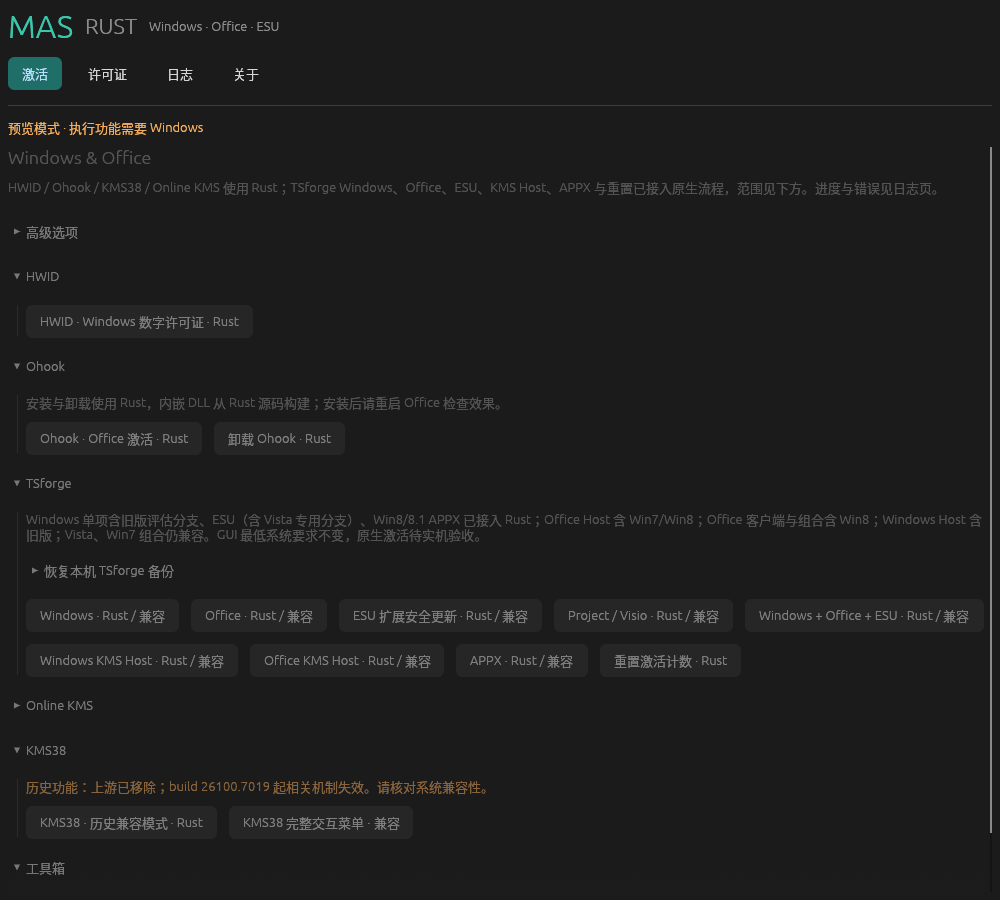
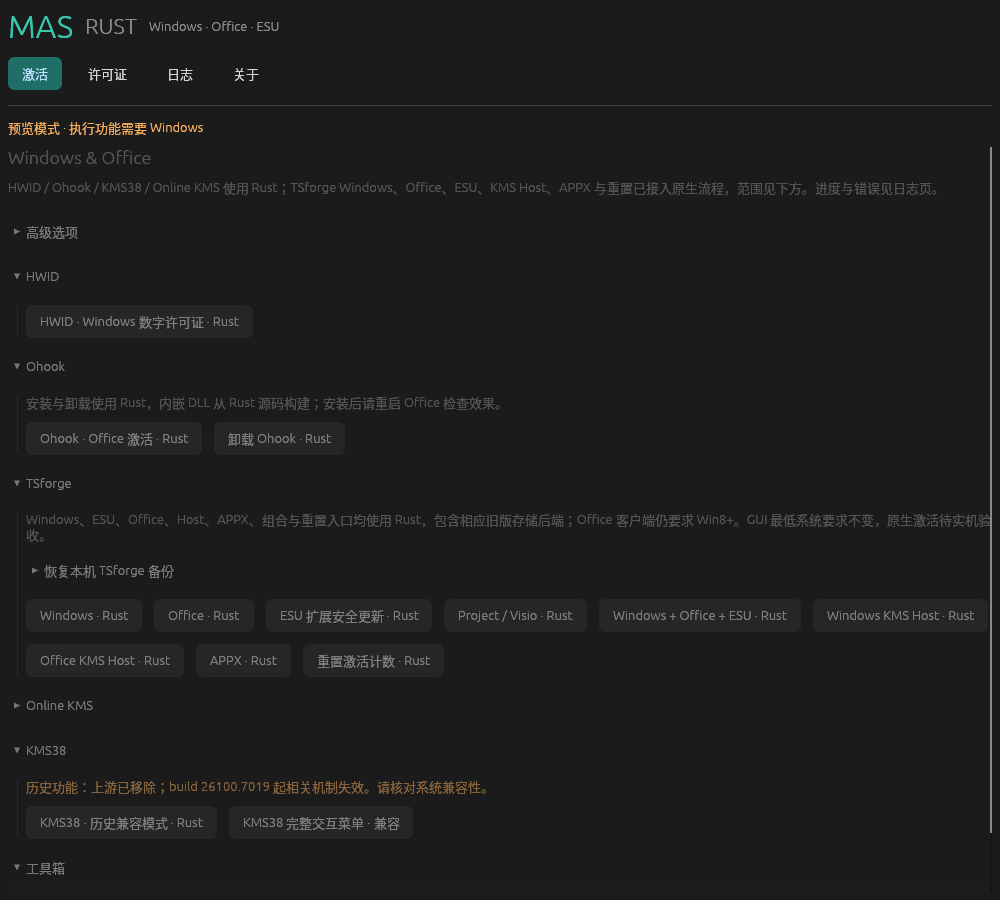
Port legacy combined TSforge flow and remove script fallback routes

diff --git a/src/native/tsforge/combined.rs b/src/native/tsforge/combined.rs
@@ -16,15 +16,35 @@ impl Scope {
         }
     }
 }
+pub fn method(option: usize, build: u32) -> Result<Method, String> {
+    super::crypto::Version::detect(build).map_err(|e| e.to_string())?;
+    let method = match option {
+        0 if build >= 26100 => Method::StaticCid,
+        0 | 2 => Method::ZeroCid,
+        1 => Method::StaticCid,
+        3 => Method::Kms4k,
+        _ => return Err("未知 TSforge 方法".into()),
+    };
+    if method == Method::StaticCid && build < 9200 {
+        return Err("StaticCID 需要 Windows 8 或更高版本，未执行组合修改。".into());
+    }
+    Ok(method)
+}
 pub fn run(
-    method: Method,
+    build: u32,
+    selected: Method,
     cleanup: impl FnOnce() -> Result<(), String>,
     mut activate: impl FnMut(Scope, Method) -> Result<Option<String>, String>,
 ) -> Result<String, String> {
+    let method = method(selected.option(), build)?;
     cleanup().map_err(|e| format!("组合流程共享准备失败，未继续激活：{e}"))?;
     let mut messages = Vec::new();
     let mut failed = false;
     for scope in [Scope::Windows, Scope::Esu, Scope::Office] {
+        if scope == Scope::Office && build < 9200 {
+            messages.push("Office：跳过，TSforge Office 仅支持 Windows 8 及更高版本。".into());
+            continue;
+        }
         if scope == Scope::Esu && method == Method::Kms4k {
             messages.push("ESU：跳过，KMS4k 不支持 ESU；可联网后选择 Auto 或 StaticCID".into());
             continue;
@@ -67,18 +87,13 @@ pub fn activate(option: usize, report: &dyn Fn(&str)) -> Result<Option<String>, 
         return Err("原生 TSforge 不支持跨架构仿真，请使用本机 x64 构建".into());
     }
     let context = windows_context::Context::read(report)?;
-    // Decide whole-request compatibility before ANY component can mutate state.
-    if context.build < 9200 {
-        return Ok(None);
-    }
     runtime::storage_preflight()?;
-    let method = connectivity::resolve(
-        office_client::method(option, context.build)?,
-        option == 0,
-        || connectivity::connected(report),
-    )?;
+    let method = connectivity::resolve(method(option, context.build)?, option == 0, || {
+        connectivity::connected(report)
+    })?;
     report(&format!("原生 Windows + ESU + Office：共享方法 {method:?}"));
     let result = run(
+        context.build,
         method,
         || {
             if method == Method::Kms4k {
@@ -101,10 +116,63 @@ pub fn activate(option: usize, report: &dyn Fn(&str)) -> Result<Option<String>, 
 mod tests {
     use super::*;
     #[test]
+    fn legacy_combination_skips_unsupported_scopes_without_calling_them() {
+        for build in [6000, 6002, 7600, 7601] {
+            assert_eq!(method(0, build).unwrap(), Method::ZeroCid);
+            for selected in [Method::ZeroCid, Method::Kms4k] {
+                let mut calls = vec![];
+                let mut cleaned = 0;
+                let message = run(
+                    build,
+                    selected,
+                    || {
+                        cleaned += 1;
+                        Ok(())
+                    },
+                    |scope, method| {
+                        assert_eq!(method, selected);
+                        calls.push(scope);
+                        Ok(Some("verified".into()))
+                    },
+                )
+                .unwrap();
+                assert_eq!(cleaned, 1);
+                assert_eq!(
+                    calls,
+                    if selected == Method::Kms4k {
+                        vec![Scope::Windows]
+                    } else {
+                        vec![Scope::Windows, Scope::Esu]
+                    }
+                );
+                assert!(message.contains("Office：跳过"));
+            }
+            assert!(
+                run(
+                    build,
+                    Method::StaticCid,
+                    || panic!("must not clean"),
+                    |_, _| panic!("must not activate")
+                )
+                .is_err()
+            );
+        }
+        assert!(
+            run(
+                7603,
+                Method::ZeroCid,
+                || panic!("unknown build"),
+                |_, _| panic!()
+            )
+            .is_err()
+        );
+    }
+    #[test]
     fn same_resolved_method_reaches_each_scope_and_kms_skips_esu() {
         for method in [Method::StaticCid, Method::ZeroCid, Method::Kms4k] {
             let mut calls = Vec::new();
             let result = run(
+                26100,
                 method,
                 || Ok(()),
                 |scope, selected| {
@@ -129,6 +197,7 @@ mod tests {
     fn failures_and_unexpected_fallback_do_not_repeat_or_stop_other_scopes() {
         let mut calls = Vec::new();
         let error = run(
+            26100,
             Method::StaticCid,
             || Ok(()),
             |scope, _| {
@@ -149,6 +218,7 @@ mod tests {
         );
         assert!(
             run(
+                26100,
                 Method::Kms4k,
                 || Err("cleanup failed".into()),
                 |_, _| panic!("must not activate")
@@ -158,20 +228,11 @@ mod tests {
         );
     }
     #[test]
-    fn method_option_roundtrips_and_combined_auto_uses_office_policy() {
+    fn method_option_roundtrips_and_combined_auto_policy() {
         for method in [Method::StaticCid, Method::ZeroCid, Method::Kms4k] {
-            assert_eq!(
-                super::super::office_client::method(method.option(), 26100).unwrap(),
-                method
-            );
+            assert_eq!(self::method(method.option(), 26100).unwrap(), method);
         }
-        assert_eq!(
-            super::super::office_client::method(0, 26100).unwrap(),
-            Method::StaticCid
-        );
-        assert_eq!(
-            super::super::office_client::method(0, 26099).unwrap(),
-            Method::ZeroCid
-        );
+        assert_eq!(self::method(0, 26100).unwrap(), Method::StaticCid);
+        assert_eq!(self::method(0, 26099).unwrap(), Method::ZeroCid);
     }
 }

diff --git a/src/engine.rs b/src/engine.rs
@@ -192,13 +192,13 @@ pub fn run(op: Operation, options: Options, report: &dyn Fn(&str)) -> Result<Str
     if op.args == ["/Z-WindowsESUOffice"] {
         return match crate::native::tsforge::activate_combined(options.ts_method, report)? {
             Some(result) => Ok(result),
-            None => run_compatibility(op, options, report),
+            None => Err("原生 TSforge 未返回处理结果；未调用兼容脚本。".into()),
         };
     }
     if op.args == ["/Z-Windows"] {
         return match crate::native::tsforge::activate_windows(options.ts_method, report)? {
             Some(result) => Ok(result),
-            None => run_compatibility(op, options, report),
+            None => Err("原生 TSforge 未返回处理结果；未调用兼容脚本。".into()),
         };
     }
     if matches!(op.args, ["/Z-Office"] | ["/Z-ProjectVisio"]) {
@@ -208,19 +208,19 @@ pub fn run(op: Operation, options: Options, report: &dyn Fn(&str)) -> Result<Str
             report,
         )? {
             Some(result) => Ok(result),
-            None => run_compatibility(op, options, report),
+            None => Err("原生 TSforge 未返回处理结果；未调用兼容脚本。".into()),
         };
     }
     if op.args == ["/Z-ESU"] {
         return match crate::native::tsforge::activate_esu(options.ts_method, report)? {
             Some(result) => Ok(result),
-            None => run_compatibility(op, options, report),
+            None => Err("原生 TSforge 未返回处理结果；未调用兼容脚本。".into()),
         };
     }
     if op.args == ["/Z-WinHost"] {
         return match crate::native::tsforge::activate_windows_host(options.ts_method, report)? {
             Some(result) => Ok(result),
-            None => run_compatibility(op, options, report),
+            None => Err("原生 TSforge 未返回处理结果；未调用兼容脚本。".into()),
         };
     }
     if matches!(op.args, ["/Z-OffHost"] | ["/Z-APPX"]) {
@@ -232,7 +232,7 @@ pub fn run(op: Operation, options: Options, report: &dyn Fn(&str)) -> Result<Str
         };
         return match activate_auxiliary(scope, options.ts_method, report)? {
             Some(result) => Ok(result),
-            None => run_compatibility(op, options, report),
+            None => Err("原生 TSforge 未返回处理结果；未调用兼容脚本。".into()),
         };
     }
     if op.args == ["/Z-Reset"] {

diff --git a/src/app.rs b/src/app.rs
@@ -123,7 +123,7 @@ impl MasApp {
                     ui.colored_label(Color32::from_rgb(245,172,92), "历史功能：上游已移除；build 26100.7019 起相关机制失效。请核对系统兼容性。");
                 }
                 if category == "Ohook" {ui.label("安装与卸载使用 Rust，内嵌 DLL 从 Rust 源码构建；安装后请重启 Office 检查效果。");}
-                if category == "TSforge" { ui.label("Windows 单项含旧版评估分支、ESU（含 Vista 专用分支）、Win8/8.1 APPX 已接入 Rust；Office Host 含 Win7/Win8；Office 客户端与组合含 Win8；Windows Host 含旧版；Vista、Win7 组合仍兼容。GUI 最低系统要求不变，原生激活待实机验收。"); }
+                if category == "TSforge" { ui.label("Windows、ESU、Office、Host、APPX、组合与重置入口均使用 Rust，包含相应旧版存储后端；Office 客户端仍要求 Win8+。GUI 最低系统要求不变，原生激活待实机验收。"); }
                 if category == "Online KMS" {
                     ui.label("原生支持 Windows、Office C2R 许可转换和 MSI 批量许可；可禁止自动转换。高级选项可指定服务器和端口，旧任务卸载仍在兼容菜单。");
                 }
@@ -140,7 +140,7 @@ impl MasApp {
                 }
                 ui.horizontal_wrapped(|ui| {
                     for op in engine::OPERATIONS.iter().filter(|op| op.category == category) {
-                        if ui.button(format!("{} · {}", op.title, if matches!(op.args, ["/Z-Windows"] | ["/Z-ESU"] | ["/Z-WinHost"] | ["/Z-OffHost"] | ["/Z-APPX"] | ["/Z-Office"] | ["/Z-ProjectVisio"] | ["/Z-WindowsESUOffice"]) { "Rust / 兼容" } else if engine::is_native(*op) { "Rust" } else { "兼容" })).clicked() { self.pending = Some(Job::Engine(*op, self.options.clone())); }
+                        if ui.button(format!("{} · {}", op.title, if engine::is_native(*op) { "Rust" } else { "兼容" })).clicked() { self.pending = Some(Job::Engine(*op, self.options.clone())); }
                     }
                 });
             });

diff --git a/build.rs b/build.rs
@@ -135,7 +135,7 @@ fn main() {
             .set("LegalCopyright", "MAS Rust contributors")
             .set_manifest(
                 r#"<assembly xmlns="urn:schemas-microsoft-com:asm.v1" manifestVersion="1.0">
-  <assemblyIdentity version="0.6.0.16" processorArchitecture="*" name="MAS.Rust" type="win32"/>
+  <assemblyIdentity version="0.6.0.17" processorArchitecture="*" name="MAS.Rust" type="win32"/>
   <description>MAS Rust</description>
   <trustInfo xmlns="urn:schemas-microsoft-com:asm.v3">
     <security>
